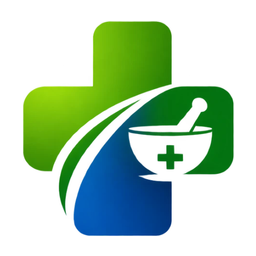
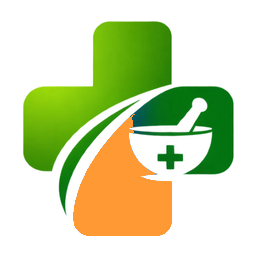
first commit

Changed region(s): [[0.2812, 0.4375, 0.6875, 0.9375]]

diff --git a/src/shared/designSystem.ts b/src/shared/designSystem.ts
@@ -57,18 +57,18 @@ export const palette = {
     50: "#F1FBEE",
   },
 
-  // Accent — the logo navy (key kept as `cobalt`). Links and "sales" only.
+  // Accent — Ashoke orange. The legacy `cobalt` key keeps existing call-sites stable.
   cobalt: {
-    900: "#0B2A5C",
-    800: "#123B7C",
-    700: "#1A4E9E",
-    600: "#2362C0",
-    500: "#3F7BD3",
-    400: "#6697E0",
-    300: "#97B8EC",
-    200: "#C1D5F5",
-    100: "#DEE8FA",
-    50: "#EFF4FD",
+    900: "#7A3600",
+    800: "#974600",
+    700: "#AD5700",
+    600: "#FF9933", // exact logo orange
+    500: "#FFB866",
+    400: "#FFC985",
+    300: "#FFD9A3",
+    200: "#FFE5C2",
+    100: "#FFF0DE",
+    50: "#FFF8F0",
   },
 
   // Cool neutral surfaces, tinted to match ink.
@@ -107,9 +107,8 @@ export const palette = {
     disabled: "#A4AEC0",
     inverse: "#FFFFFF",
     accent: "#237A16", // brand green 700 — passes AA on white
-    // 5.87:1 on white. #2362C0 was 3.43:1 — links are body-size text,
-    // so they need the full 4.5:1, not the 3:1 allowed for large text.
-    link: "#1A4E9E",
+    // 5.03:1 on white — links are body-size text and need the full AA floor.
+    link: "#AD5700",
   },
 
   border: {
@@ -127,7 +126,7 @@ export const palette = {
   success: { bg: "#E4F5EE", text: "#0F7A54", border: "#B7E6D3" }, // 4.73:1
   warning: { bg: "#FBF1DC", text: "#8A5A11", border: "#F3DCA6" }, // 5.27:1
   danger: { bg: "#FCEAE7", text: "#B32D1D", border: "#F6C9C1" }, // 5.46:1
-  info: { bg: "#E7F1FC", text: "#1467AE", border: "#C1D5F5" }, // 5.13:1
+  info: { bg: "#FFF0DE", text: "#AD5700", border: "#FFE5C2" }, // 5.03:1
 } as const;
 
 /**
@@ -183,7 +182,7 @@ export const darkPalette = {
     inverse: "#0E1B33",
     /** Lifted from 700 to 400: the deep green is unreadable on a dark ground. */
     accent: "#66C954",
-    link: "#6697E0",
+    link: "#FFB866",
   },
   border: {
     subtle: "#26312E",
@@ -196,13 +195,13 @@ export const darkPalette = {
   success: { bg: "#12301F", text: "#5FD498", border: "#1F5133" },
   warning: { bg: "#33260E", text: "#E5B45C", border: "#57401A" },
   danger: { bg: "#3A1A16", text: "#F08C7C", border: "#5E2A24" },
-  info: { bg: "#12283D", text: "#6FB4F0", border: "#1D4468" },
+  info: { bg: "#3D240F", text: "#FFB866", border: "#6B3B14" },
 } as const;
 
 /** Status accents, re-tuned for a dark ground. */
 export const darkAccents = {
   teal: { color: "#66C954", tint: "#12301F" },
-  blue: { color: "#6697E0", tint: "#12283D" },
+  blue: { color: "#FFB866", tint: "#3D240F" },
   amber: { color: "#E5B45C", tint: "#33260E" },
   red: { color: "#F08C7C", tint: "#3A1A16" },
   purple: { color: "#A79BF0", tint: "#241F3D" },
@@ -220,7 +219,7 @@ export const darkAccents = {
  */
 export const accents = {
   teal: { color: "#2E9A1E", tint: "#E9F7F0" },
-  blue: { color: "#2362C0", tint: "#E7F1FC" },
+  blue: { color: "#FF9933", tint: "#FFF0DE" },
   amber: { color: "#C1801C", tint: "#FBF1DC" },
   red: { color: "#DB4B3D", tint: "#FCEAE7" },
   purple: { color: "#7C6FE0", tint: "#EEECFB" },
@@ -482,17 +481,17 @@ export const motion = {
 /**
  * Gradients.
  *
- * The green→blue sweep is retired from product surfaces: a gradient banner at
+ * The green→orange sweep is retired from product surfaces: a gradient banner at
  * the top of a working dashboard is decoration where the user wants density,
  * and it was the loudest thing on the screen. These are kept for auth/marketing
  * panels, where a brand moment is the actual job.
  */
 export const gradients = {
-  hero: ["#0B2A5C", "#14508A", "#237A16"] as const,
+  hero: ["#FF9933", "#D97600", "#237A16"] as const,
   teal: ["#2E9A1E", "#1A5A10"] as const,
-  cobalt: ["#3F7BD3", "#1A4E9E"] as const,
+  cobalt: ["#FFB866", "#AD5700"] as const,
   light: ["#FFFFFF", "#F6F8FA"] as const,
-  mist: ["#F1FBEE", "#EFF4FD"] as const,
+  mist: ["#F1FBEE", "#FFF8F0"] as const,
 } as const;
 
 /** Glass — translucent frosted panels for overlays over gradients/imagery. */
